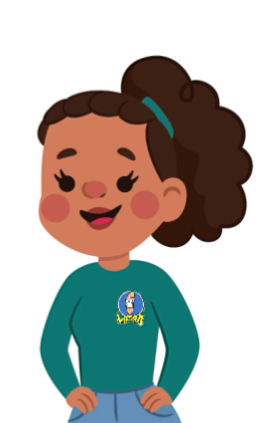
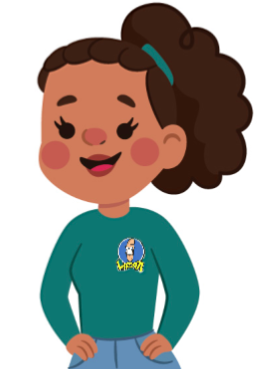
sized

diff --git a/src/Game.js b/src/Game.js
@@ -65,7 +65,7 @@ class Game extends Component {
                 className="card-img col-6-sm "
                 alt="..."
                 style={{ width: "2rem", height: "2rem", marginLeft: "5px" }}
-              />{" "}
+              />
             </h3>
 
             <div className="container-fluid align-center">
@@ -74,7 +74,7 @@ class Game extends Component {
                   src={Laila}
                   className="card-img col-6-sm "
                   alt="..."
-                  style={{ width: "17rem", height: "28rem", marginLeft: "5px" }}
+                  style={{ width: "13rem", height: "17rem", marginLeft: "5px" }}
                 />
 
                 <div
@@ -89,7 +89,7 @@ class Game extends Component {
                     <Circle
                       usedHole={this.randomHoles(this.state.holes)}
                       score={() => this.IncreaseScore}
-                    />{" "}
+                    />
                     <Circle
                       usedHole={this.randomHoles(this.state.holes)}
                       score={() => this.IncreaseScore}
@@ -100,7 +100,7 @@ class Game extends Component {
                     <Circle
                       usedHole={this.randomHoles(this.state.holes)}
                       score={() => this.IncreaseScore}
-                    />{" "}
+                    />
                     <Circle
                       usedHole={this.randomHoles(this.state.holes)}
                       score={() => this.IncreaseScore}
